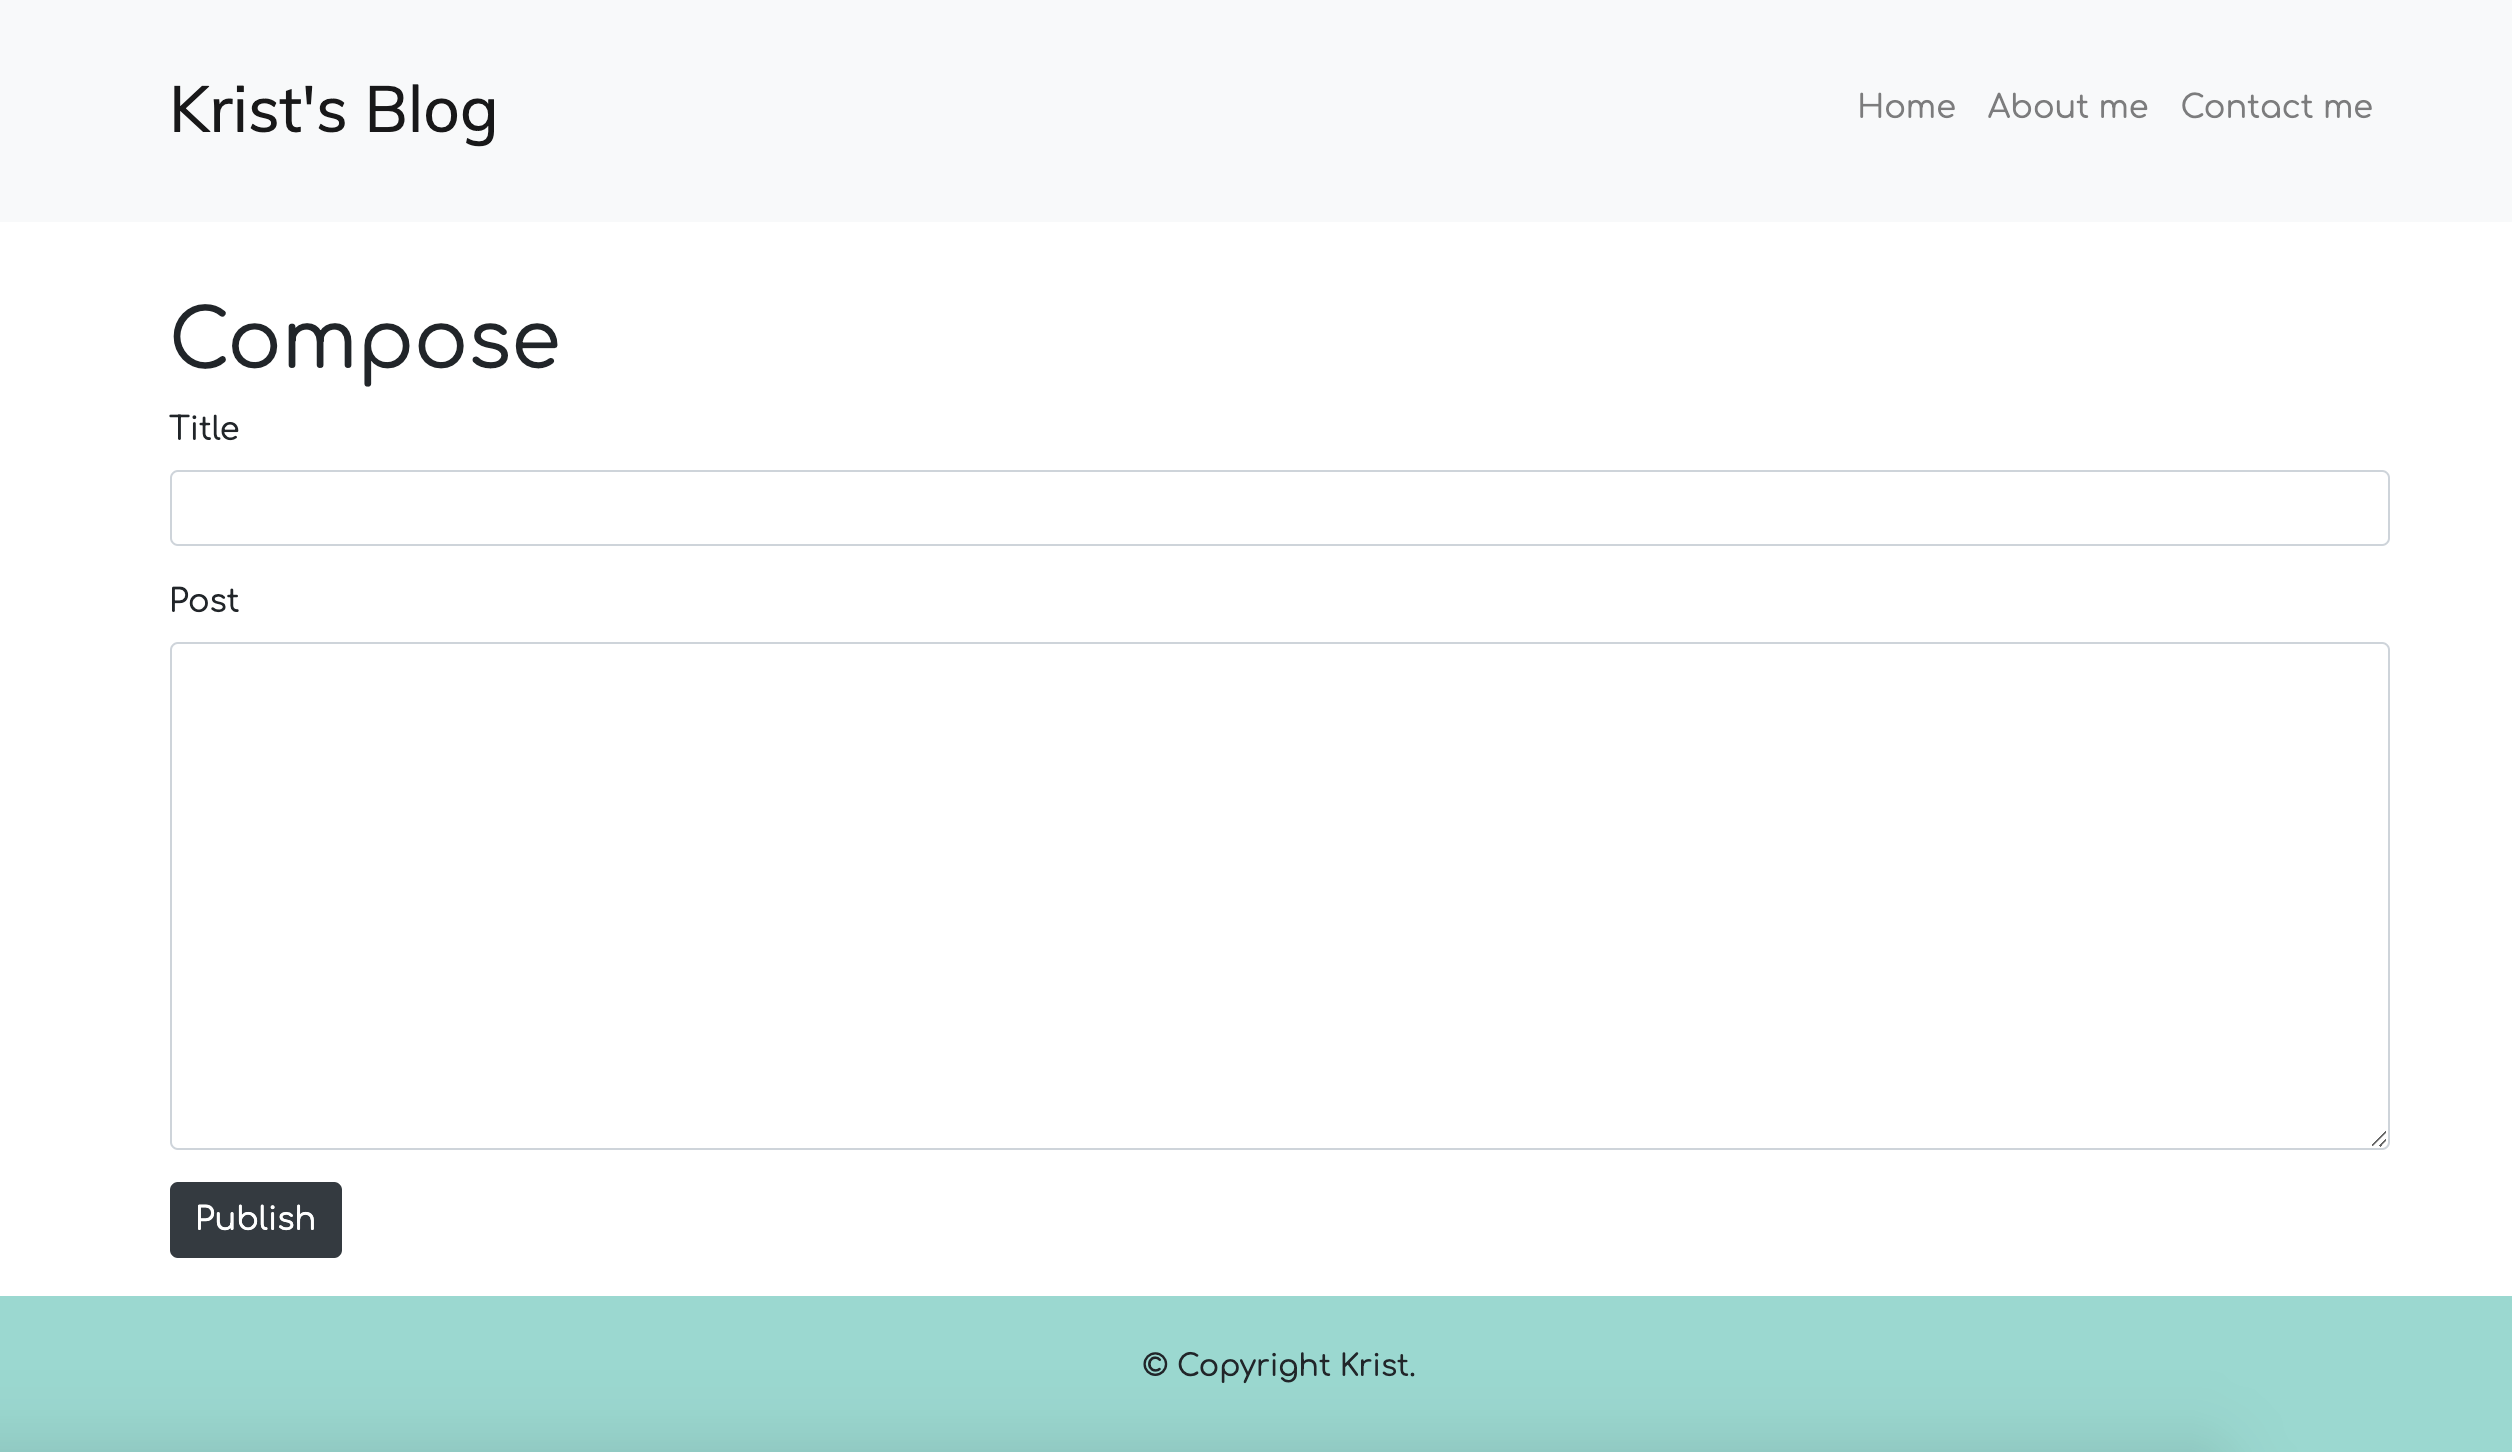
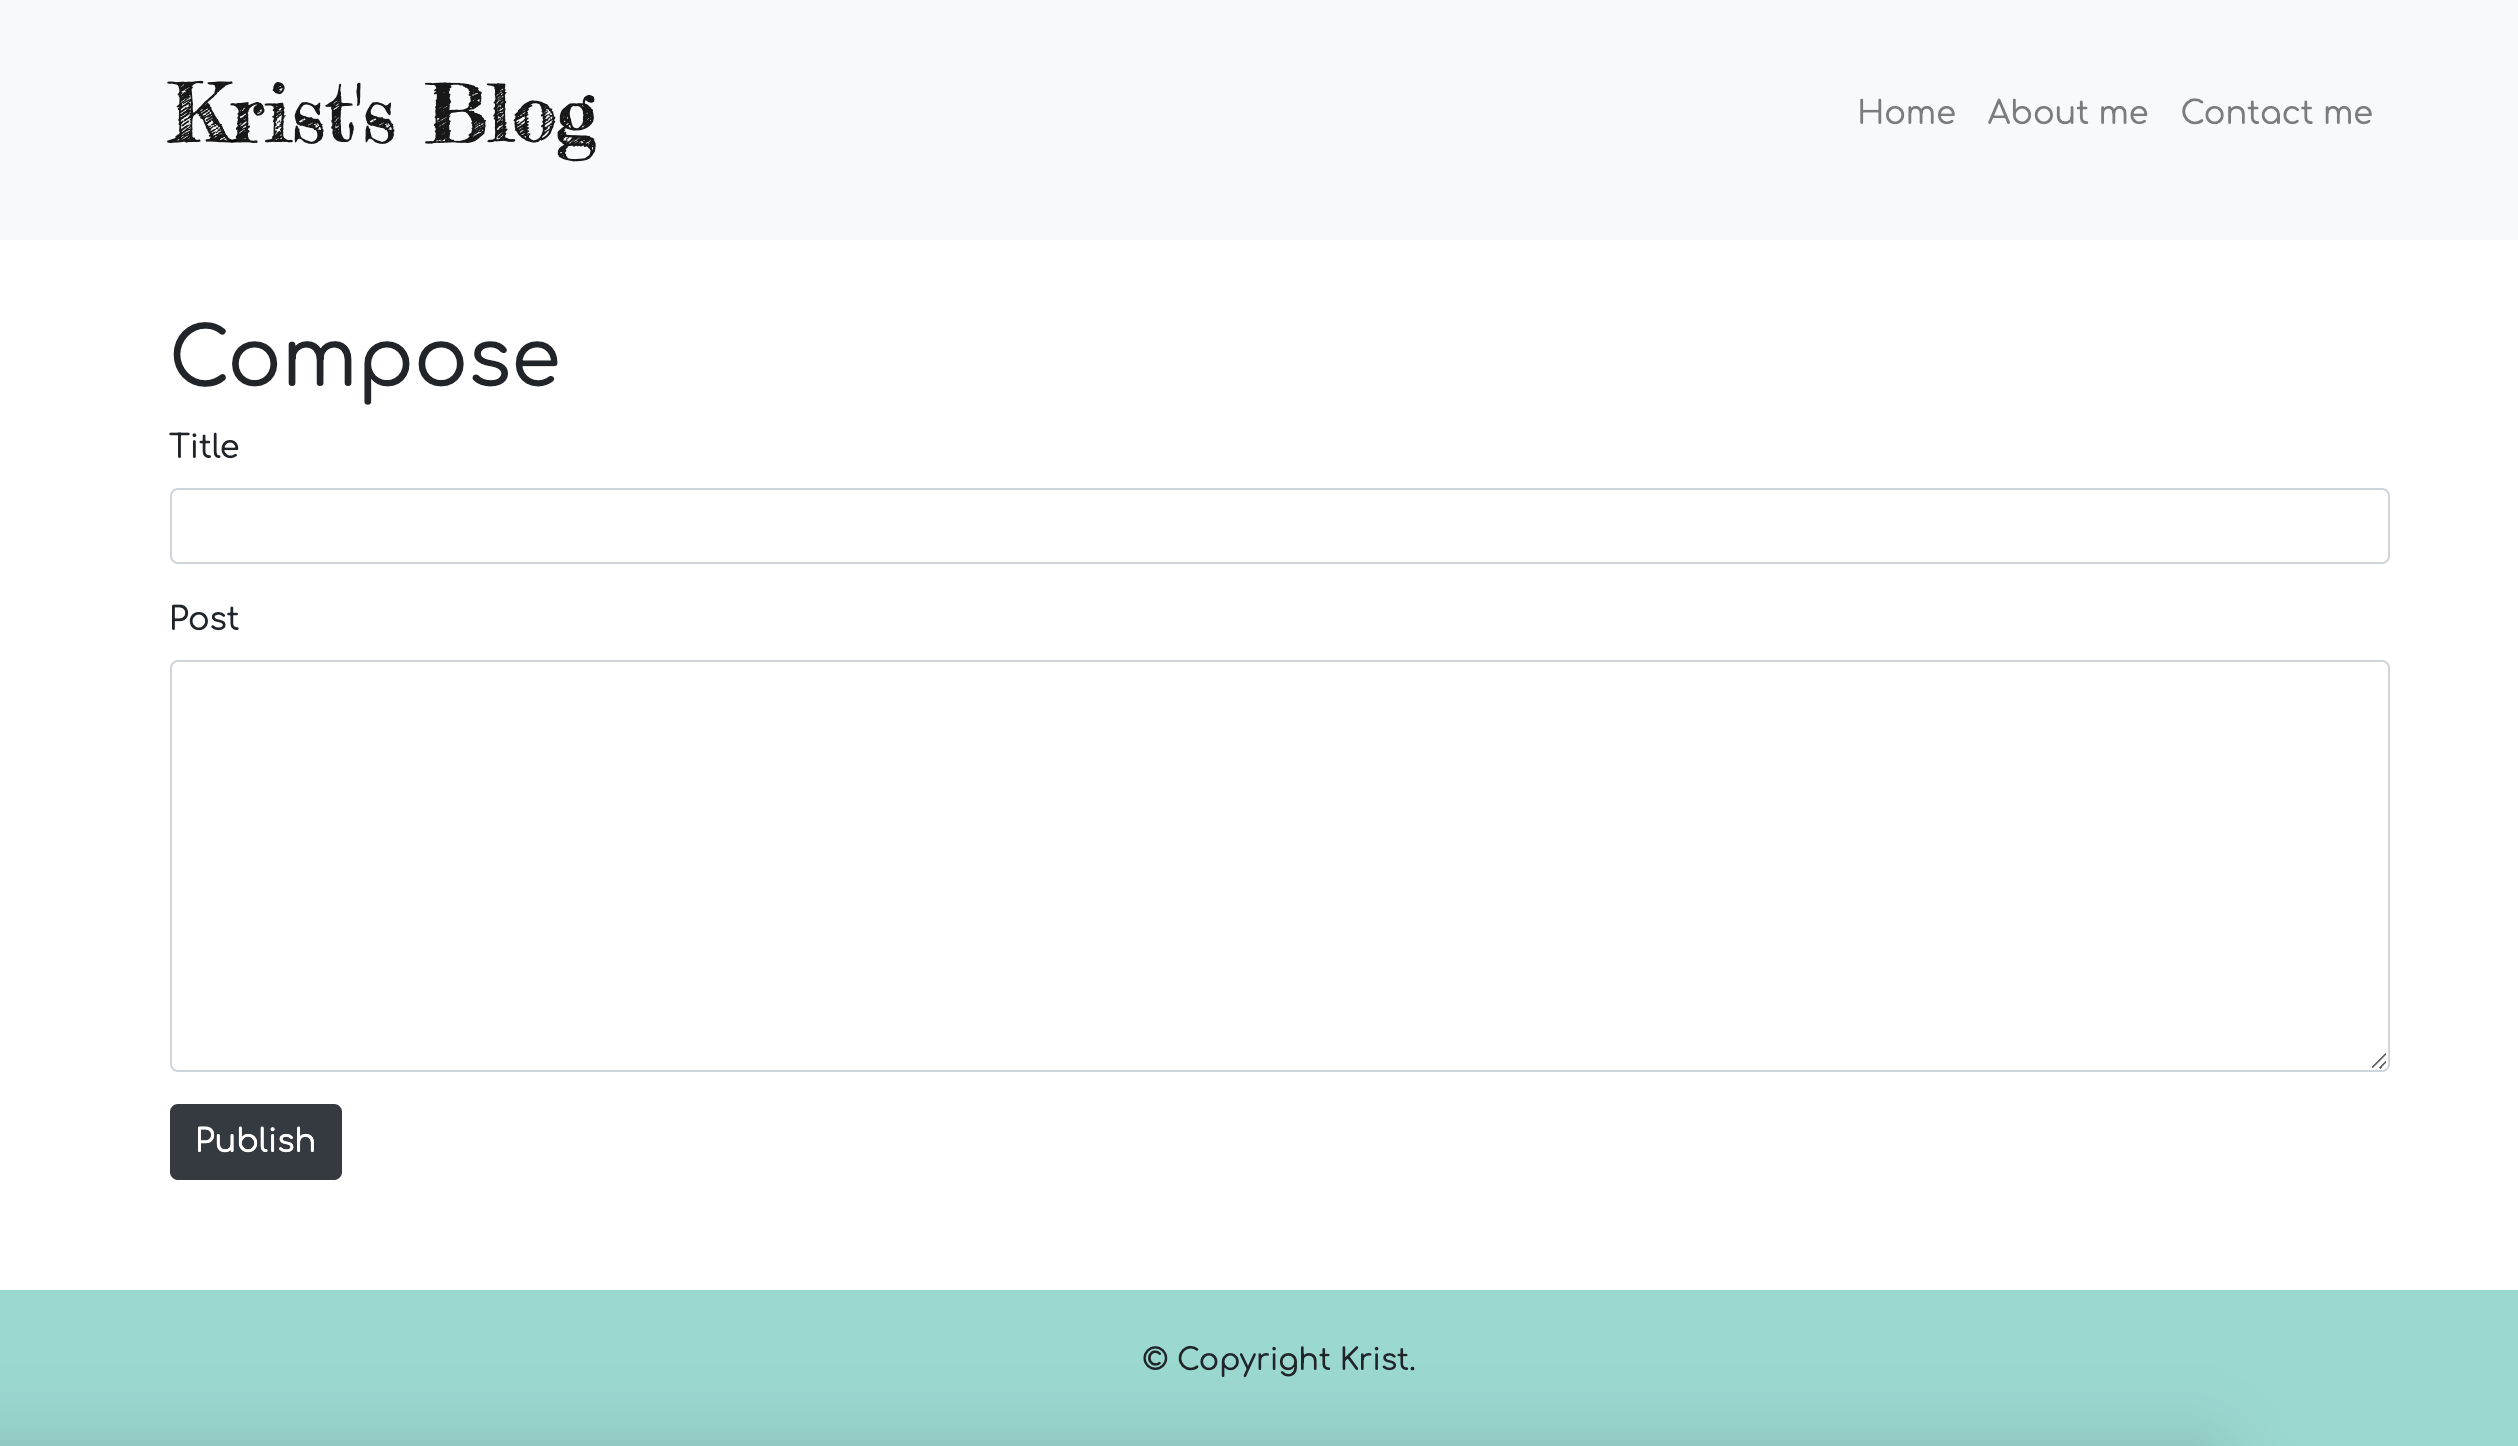
Edit font-family; update screenshots

diff --git a/public/css/style.css b/public/css/style.css
@@ -41,6 +41,6 @@ footer p {
 
 .navbar-brand {
     margin: 0;
-    font-family: 'Muli', sans-serif;
-    font-size: 2rem;
+    font-family: 'Fredericka the Great', cursive;
+    font-size: 2.5rem;
 }

diff --git a/README.md b/README.md
@@ -6,11 +6,11 @@ This Project is based on Angela's online web development course on Udemy.
 The course link: https://www.udemy.com/course/the-complete-web-development-bootcamp/
 
 # Screenshots
-## home-page
+home-page
 ![home-page](screenshots/home-page.png)
-## contact-page
+contact-page
 ![home-page](screenshots/contact-page.png)
-## post-page
+post-page
 ![home-page](screenshots/post-page.png)
-## compose-page
+compose-page
 ![home-page](screenshots/compose-page.png)
